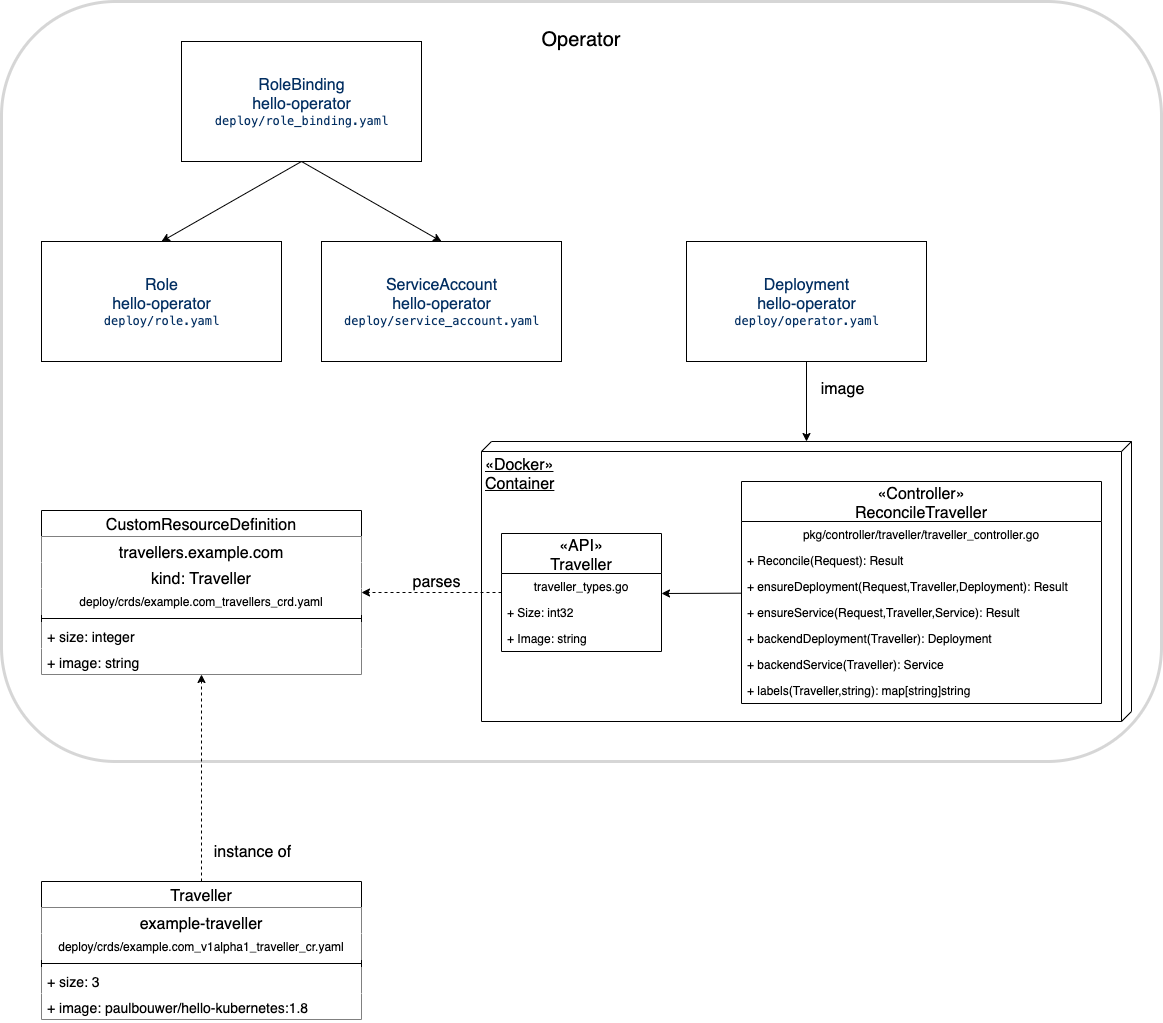
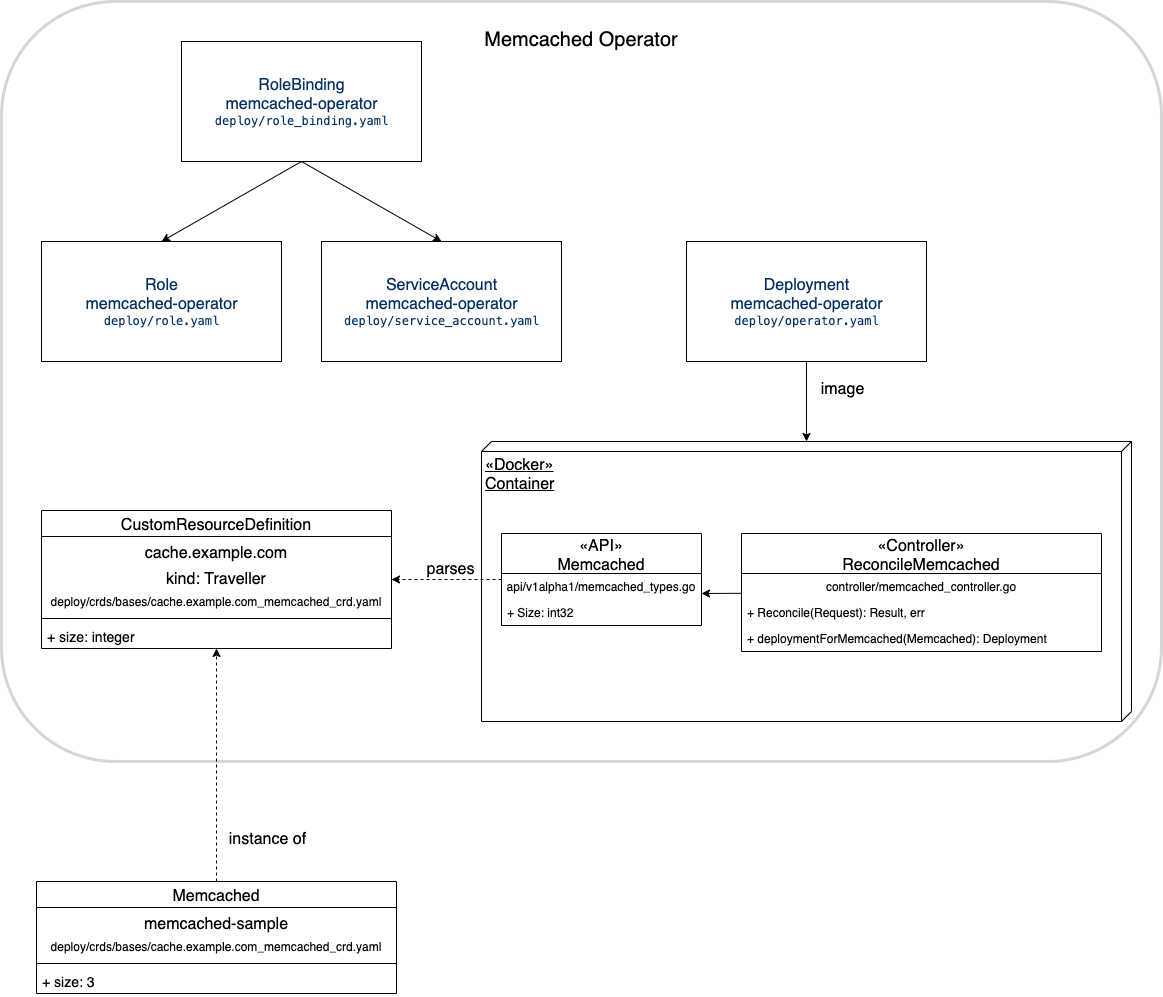
TT-ISV-org/planning#265: update operator diagram

diff --git a/INTRO_TO_OPERATORS.md b/INTRO_TO_OPERATORS.md
@@ -53,6 +53,8 @@ This [What is a Kubernetes operator?](https://www.redhat.com/en/topics/container
 
 ## 2. What do operators do
 
+![Control Loops with Operators](./images/operator-reconciliation.png)
+
 In Kubernetes, controllers in the
 [control plane](https://kubernetes.io/docs/concepts/overview/components/) run in a control loop that repeatedly compares the desired state of the cluster to its current state. If the states don't match,
 then the controller takes action to adjust the current state to more closely match the desired state. Similarly, the controller in an operator watches a specific CR type and takes application-specific actions to make the workload's current state match the desired state expressed in the CR.
